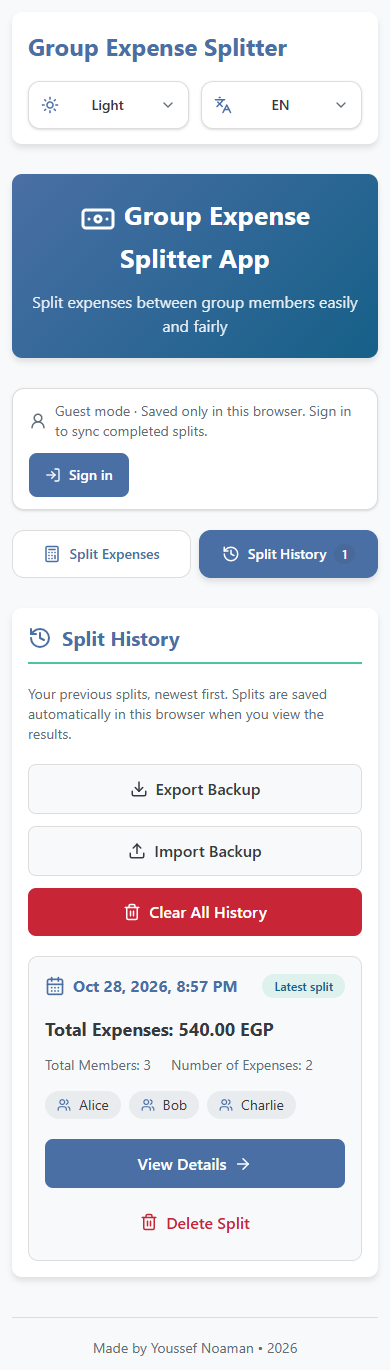
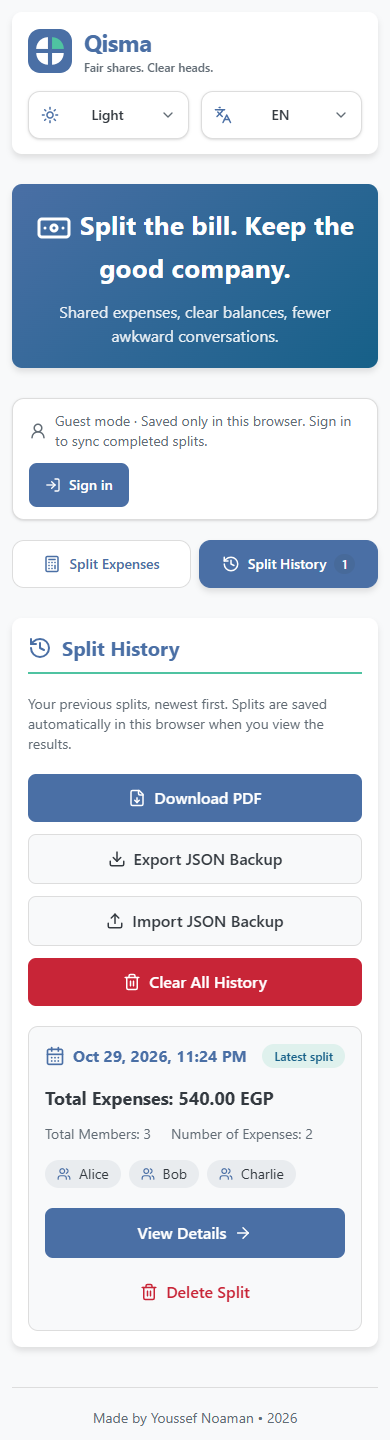
docs: document Qisma reports and refresh product previews

diff --git a/README.md b/README.md
@@ -1,4 +1,7 @@
-# Group Expense Splitter
+# Qisma | Fair shares. Clear heads.
+
+[![Quality checks](https://github.com/YoussefNoaman96/Qisma/actions/workflows/quality.yml/badge.svg)](https://github.com/YoussefNoaman96/Qisma/actions/workflows/quality.yml)
+[Source code](https://github.com/YoussefNoaman96/Qisma) · [Architecture](docs/architecture.md)
 
 A full-stack expense-sharing application with optional accounts, private cloud history, and a complete guest experience. Built with JavaScript, React, Tailwind CSS, Node.js, Express, and MongoDB Atlas.
 
@@ -16,6 +19,10 @@ A full-stack expense-sharing application with optional accounts, private cloud h
 
 - Three steps: add at least two members, record expenses, and review settlements.
 - Exact integer-piastre accounting, deterministic remainder allocation, and debt cancellation.
+- Arabic-Indic and Persian numeral input with exact decimal validation.
+- Downloadable PDF reports with embedded Arabic/Latin fonts, selectable text, exact balances, and automatic pagination.
+- Copy a settlement summary for sharing in a group chat.
+- A branded 404 page, recoverable rendering failures, and lightweight entrance motion with reduced-motion support.
 - Add, edit, and delete expenses; preserve dated, immutable split snapshots.
 - Optional registration and sign-in with private, cross-device history.
 - Guest mode with browser-local history and automatic draft recovery.
@@ -24,6 +31,8 @@ A full-stack expense-sharing application with optional accounts, private cloud h
 - Versioned JSON backup export and atomic, deduplicated cloud imports.
 - Responsive sliding authentication panels styled with Tailwind and existing theme tokens.
 - English and Arabic, LTR/RTL layouts, light/dark themes, and keyboard-accessible controls.
+
+![The Qisma recovery page](docs/screenshots/not-found.png)
 
 ## Stack
 
@@ -68,6 +77,8 @@ For Atlas, create a **database user** with access to the application database, a
 npm run dev:full
 ```
 
+The local working copy is now at `D:\codex\Qisma`. Open this folder in VS Code rather than the original university-project folder.
+
 Open **http://127.0.0.1:5173**. Vite proxies `/api` to Node on port 3001 and fails clearly if its port is already occupied instead of silently moving to another port. Stop older development servers before starting another copy. In development, Origin checks accept both `127.0.0.1` and `localhost` on the configured port. Choose one hostname consistently because cookies and localStorage are separate for each hostname. Production accepts only the exact configured origin. Changes to `server/.env` require an API restart.
 
 For a frontend-only guest session, `npm run dev` is sufficient. Authentication and cloud history require the API and database.
@@ -90,7 +101,14 @@ For a frontend-only guest session, `npm run dev` is sufficient. Authentication a
 | `npm run format`      | Format source and documentation                       |
 | `npm run check`       | Lint, check formatting, run unit/API tests, and build |
 
-Install a Playwright browser before browser tests:
+On Windows, reuse the installed Microsoft Edge browser to avoid a browser download:
+
+```powershell
+$env:PLAYWRIGHT_CHANNEL = 'msedge'
+npm run test:e2e
+```
+
+The project-local npm cache and test temporary files stay under the project directory on D. To use Playwright Chromium instead, install its browser before tests:
 
 ```bash
 npx playwright install chromium
@@ -135,7 +153,7 @@ The React `AuthProvider` restores cookie sessions and owns sign-in/out. The API 
 
 Accounting remains independent of React and Express in `src/lib/expenses.js`. Balances and transfers are derived from source expenses rather than stored as mutable duplicate state. Frontend and API validation share pure group invariants; authentication uses the same Zod schemas on both sides.
 
-Routes: `#/split`, `#/history`, `#/history/<id>`, `#/login`, and `#/register`. Hash routing supports static guest demos without rewrite rules.
+Routes: `#/split`, `#/history`, `#/history/<id>`, `#/login`, and `#/register`. Unknown hash routes and unexpected URL paths show the branded 404 view; the production server returns HTTP 404 for missing HTML pages. Hash routing supports static guest demos without rewrite rules.
 
 ## Authentication and Security
 
@@ -149,6 +167,14 @@ Routes: `#/split`, `#/history`, `#/history/<id>`, `#/login`, and `#/register`. H
 - Errors return stable codes and request IDs. Unexpected exceptions and startup failures do not expose database URLs, credentials, passwords, or raw driver errors.
 
 This version uses password authentication without email verification, password-reset delivery, or MFA. It does not display nonfunctional recovery/social-login links. Those features require additional flows and an email provider before they can be offered. See [deployment notes](docs/architecture.md) for operational limits and production setup.
+
+## PDF Reports and Sharing
+
+**Download PDF** on the results page exports the current split; on a saved split it exports that snapshot; on the archive list it exports the full available archive. Reports include save/preparation dates, totals, each member’s exact share and net balance, settlement transfers, and the expense ledger. They use the selected interface language, embed the Amiri font under its SIL Open Font License, preserve selectable text, and paginate long tables. PDF code and fonts load only when requested. Report generation stays on the device and sends no data to a third-party report service.
+
+**Copy summary** prepares text for manual sharing, including the total and settlement transfers. It does not send messages or disclose account credentials or private record URLs. If clipboard access is unavailable, a selectable text field is provided.
+
+PDF is a reading/sharing format. **Export JSON Backup** and **Import JSON Backup** remain available for restoring structured archive data; a PDF cannot be imported as a data backup.
 
 ## Storage, History, and Backups
 
@@ -190,11 +216,19 @@ All endpoints are under `/api`; requests and responses use JSON. Errors use `{ e
 
 ## Verification
 
-Unit tests cover currency parsing, conservation of money, uneven shares, debt cancellation, malformed drafts, guest persistence, backups, and failed writes. API tests cover hashing, cookie flags, validation, CSRF/Origin rejection, rate limits, refresh rotation/reuse, logout revocation, ownership, pagination, and atomic imports.
+Unit tests cover currency parsing, Arabic/Persian numerals, conservation of money, uneven shares, debt cancellation, malformed drafts, guest persistence, backups, failed writes, route parsing, and text extraction/pagination of generated English and Arabic PDFs. API tests cover hashing, cookie flags, validation, CSRF/Origin rejection, rate limits, refresh rotation/reuse, logout revocation, ownership, pagination, and atomic imports.
 
 Browser tests exercise the original guest workflow plus optional registration, explicit guest copying, clean account workspaces, session restoration, cross-browser history access, cloud deletion, and sign-out everywhere. axe-core audits workflow/auth pages in both directions and themes; failure traces and screenshots are retained. Automated accessibility checks complement manual review.
 
 GitHub Actions runs code checks, unit/API integration tests, and browser tests on pushes and pull requests. Workflow execution begins after the project is uploaded to GitHub.
+
+## Branding and Repository
+
+The public product is **Qisma**. Its name refers to fair division in Arabic. The interface remains functional React with pure accounting utilities; the old folder name described its university origin rather than the current architecture. The pie mark represents four clear shares and is supplied as SVG, browser favicon, and an Apple touch icon. The social preview is generated from `public/brand/social-preview.svg`; run `node scripts/brand-assets.mjs` after changing it.
+
+Set the build-time `PUBLIC_SITE_URL` to the actual HTTPS deployment URL to emit absolute Open Graph image and canonical URLs. Without a deployment URL, preview metadata uses the configured Vite base path. The Pages workflow supplies the repository URL and `/Qisma/` base automatically. No production API credentials belong in frontend environment variables.
+
+The local Git history starts with an honest snapshot of the pre-existing application and records the subsequent changes in focused Conventional Commits. It does not invent earlier development dates or represent deterministic invariant tests as a formal property-testing framework.
 
 ## Deployment
 

diff --git a/docs/architecture.md b/docs/architecture.md
@@ -1,5 +1,11 @@
 # Architecture and Deployment Notes
 
+## Client reports and recovery
+
+Qisma builds PDF reports on the device with jsPDF and AutoTable. The report module and licensed Amiri fonts load on demand. The PDF contains selectable text and paginated tables rather than screenshots; Arabic shaping and bidirectional ordering preserve mixed Arabic/Latin names and exact numeric amounts. JSON archives retain their versioned import/export contract for restoring data.
+
+Unknown routes render the recovery page, while production HTML requests for missing paths return HTTP 404. A React error boundary provides a reload action without clearing browser data. Entrance animation uses opacity and translation only, with no scroll listener or animation framework; the reduced-motion media query disables it.
+
 ## Request flow
 
 ```mermaid
